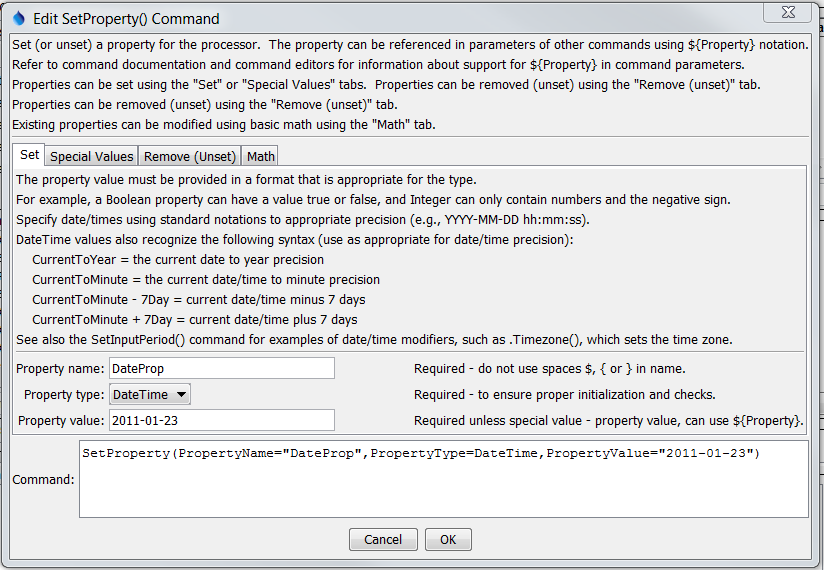
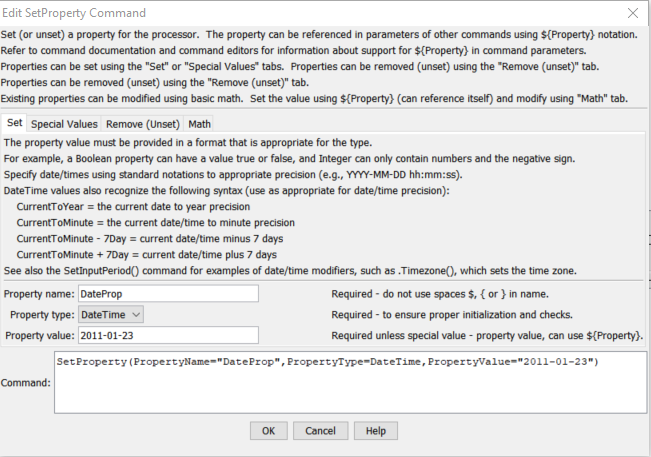
Update SetProperty and Wait for more support of properties, issue #40

diff --git a/mkdocs-project/docs/command-ref/SetProperty/SetProperty.md b/mkdocs-project/docs/command-ref/SetProperty/SetProperty.md
@@ -12,8 +12,11 @@
 ## Overview ##
 
 The `SetProperty` command sets the value of a property used by the time series processor.
+Processor properties are similar to variables in programming languages and TSTool processor properties have
+a name, type (e.g., integer, string), and value.
 The property will be available to subsequent commands that support using `${Property}` notation in parameters,
 for example to specify filenames more dynamically or use with [`If`](../If/If.md) commands.
+The documentation for each command indicates which command parameters can be specified as a property.
 This command should not be confused with the [`SetTimeSeriesProperty`](../SetTimeSeriesProperty/SetTimeSeriesProperty.md) command,
 which sets a property on specific time series.  The following functionality is provided:
 
@@ -23,13 +26,17 @@ which sets a property on specific time series.  The following functionality is p
 Care should be taken to understand the implications of removing a property.
 For example, if the property is used in later commands, then removing will cause the processor to not find the property.
 It may be more appropriate, for example, to set a string property to an empty string rather than removing.
-* Set a property by modifying a previous global property using basic manipulations.
+* Set a property by modifying a previous processor property using basic math manipulations.
+In this case, specify the initial property value with `${Property}` and then use the ***Math*** tab parameters
+to manipulate the initial value.
 
 ## Command Editor ##
 
 The following dialog is used to edit the command and illustrates the command syntax for general parameters.
 
+**<p style="text-align: center;">
 ![SetProperty](SetProperty.png)
+</p>**
 
 **<p style="text-align: center;">
 `SetProperty` Command Editor for General Set Parameters (<a href="../SetProperty.png">see also the full-size image</a>)
@@ -37,7 +44,9 @@ The following dialog is used to edit the command and illustrates the command syn
 
 The following dialog is used to edit the command and illustrates the command syntax for special value parameters.
 
+**<p style="text-align: center;">
 ![SetProperty](SetProperty_Special.png)
+</p>**
 
 **<p style="text-align: center;">
 `SetProperty` Command Editor for Special Value Parameters (<a href="../SetProperty_Special.png">see also the full-size image</a>)
@@ -45,7 +54,9 @@ The following dialog is used to edit the command and illustrates the command syn
 
 The following dialog is used to edit the command and illustrates the command syntax for removing a property.
 
+**<p style="text-align: center;">
 ![SetProperty](SetProperty_Remove.png)
+</p>**
 
 **<p style="text-align: center;">
 `SetProperty` Command Editor for Removing a Property (<a href="../SetProperty_Remove.png">see also the full-size image</a>)
@@ -57,7 +68,9 @@ The `PropertyValue` parameter must specify the name of an existing property usin
 This causes the old value to be retrieved and then the math operation is performed.
 A common operation would be to increment a property’s value in a [`For`](../For/For.md) loop.
 
+**<p style="text-align: center;">
 ![SetProperty](SetProperty_Math1.png)
+</p>**
 
 **<p style="text-align: center;">
 `SetProperty` Command Editor for Performing Math showing Main Property Parameters (<a href="../SetProperty_Math1.png">see also the full-size image</a>)
@@ -65,7 +78,9 @@ A common operation would be to increment a property’s value in a [`For`](../Fo
 
 The following illustrates the math input parameters.
 
+**<p style="text-align: center;">
 ![SetProperty](SetProperty_Math2.png)
+</p>**
 
 **<p style="text-align: center;">
 `SetProperty` Command Editor for Performing Math showing Math Input (<a href="../SetProperty_Math2.png">see also the full-size image</a>)
@@ -91,10 +106,10 @@ Command Parameters
 | `SetNaN`|If specified as `True`, the Double property will be set to the special “not a number” (`NaN`) value.|The `PropertyValue` parameter will be used.|
 | `SetNull`|If specified as True, the property will be set to null (not specified).|The PropertyValue parameter will be used.|
 | `RemoveProperty`|If specified as `True`, the property will be removed and will be unavailable to the processor.  Only user-defined properties can be removed (not important internal properties).|The `PropertyValue` parameter will be used.|
-| `Add`|Value to add to the property value:<br><br><ul><li>Double or Integer property value will be incremented by `Add`.</li><li>String property value will have `Add` appended.</li><li>DateTime property value will be shifted forward in time by `Add` (e.g., `Add=1Day`).</li></ul>|No addition.|
-| `Subtract`|Value to subtract from the property value:<br><br><ul><li>Double or Integer property value will be decremented by `Subtract`.</li><li>String property value will have `Subtract` removed for all occurrences.</li><li>DateTime property value will be shifted back in time by `Subtract` (e.g., `Subtract=1Day`).</li></ul>|No subtraction.|
-| `Multiply`|Value to multiply the property value:<br><br><ul><li>Double or Integer property value will be multiplied by `Multiply.`</li></ul>|No multiplication.|
-| `Divide`|Value to divide the property value:<br><br><ul><li>Double or Integer property value will be divided by `Divide`.  Dividing by zero will set the result to `NaN` for Double and null for Integer.|No division.|
+| `Add`|Value to add to the property value, can be specified using `${Property}`:<br><br><ul><li>Double or Integer property value will be incremented by `Add`.</li><li>String property value will have `Add` appended.</li><li>DateTime property value will be shifted forward in time by `Add` (e.g., `Add=1Day`).</li></ul>|No addition.|
+| `Subtract`|Value to subtract from the property value, can be specified using `${Property}`:<br><br><ul><li>Double or Integer property value will be decremented by `Subtract`.</li><li>String property value will have `Subtract` removed for all occurrences.</li><li>DateTime property value will be shifted back in time by `Subtract` (e.g., `Subtract=1Day`).</li></ul>|No subtraction.|
+| `Multiply`|Value to multiply the property value, can be specified using `${Property}`:<br><br><ul><li>Double or Integer property value will be multiplied by `Multiply.`</li></ul>|No multiplication.|
+| `Divide`|Value to divide the property value, can be specified using `${Property}`:<br><br><ul><li>Double or Integer property value will be divided by `Divide`.  Dividing by zero will set the result to `NaN` for Double and null for Integer.|No division.|
 
 ## Examples ##
 

diff --git a/mkdocs-project/docs/command-ref/Wait/Wait.md b/mkdocs-project/docs/command-ref/Wait/Wait.md
@@ -26,7 +26,9 @@ In most cases users will not need to interrupt command workflows that are using 
 
 The following dialog is used to edit the command and illustrates the command syntax.
 
+**<p style="text-align: center;">
 ![Wait](Wait.png)
+</p>**
 
 **<p style="text-align: center;">
 `Wait` Command Editor Showing Conditions Test (<a href="../Wait.png">see also the full-size image</a>)
@@ -45,8 +47,8 @@ Command Parameters
 
 | **Parameter**&nbsp;&nbsp;&nbsp;&nbsp;&nbsp;&nbsp;&nbsp;&nbsp;&nbsp;&nbsp;&nbsp;&nbsp;&nbsp;&nbsp;&nbsp;&nbsp;&nbsp;&nbsp;&nbsp;&nbsp;&nbsp;&nbsp;&nbsp;&nbsp;&nbsp;&nbsp; | **Description** | **Default**&nbsp;&nbsp;&nbsp;&nbsp;&nbsp;&nbsp;&nbsp;&nbsp;&nbsp;&nbsp; |
 | --------------|-----------------|----------------- |
-|`WaitTime`<br>**required**|The number of seconds to wait.|None – must be specified.|
-|`ProgressIncrement`|The number of seconds between progress updates in the main TSTool progress indicator.|`WaitTime` divided by ten.|
+|`WaitTime`<br>**required**|The number of seconds to wait, can be specified using `${Property}`.|None – must be specified.|
+|`ProgressIncrement`|The number of seconds between progress updates in the main TSTool progress indicator, can be specified using `${Property}`.|`WaitTime` divided by ten.|
 
 ## Examples ##
 

diff --git a/mkdocs-project/docs/appendix-release-notes/release-notes-13.md b/mkdocs-project/docs/appendix-release-notes/release-notes-13.md
@@ -27,8 +27,10 @@ add `CompareFlags` to control whether data flags are also compared.
 [`CreateRegressionTestCommandFile`](../command-ref/CreateRegressionTestCommandFile/CreateRegressionTestCommandFile.md)
 command to support multiple patterns to match files.
 * ![change](change.png) [13.03.00] Update the [`NewTable`](../command-ref/NewTable/NewTable.md) command to support arrays.
+* ![change](change.png) [13.03.00] Update the [`SetProperty`](../command-ref/SetProperty/SetProperty.md) command to allow math parameters to be specified as properties.
 * ![change](change.png) [13.03.00] Update the [`SetTableValues`](../command-ref/SetTableValues/SetTableValues.md) command to
 add `Column` and `Value` parameters to set a single column value, useful for complex values such as arrays
+* ![change](change.png) [13.03.00] Update the [`Wait`](../command-ref/Wait/Wait.md) command to allow parameters to be specified as properties.
 * ![change](change.png) [13.03.00] Update the [`WriteTableToDelimitedFile`](../command-ref/WriteTableToDelimitedFile/WriteTableToDelimitedFile.md)
 command parameters to provide more flexibility in controlling the file format and support array columns.
 Also enhance performance of the command.
